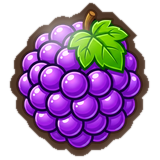
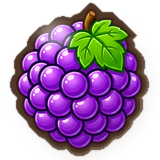
art(frames, fruit): the reference's frame and the reference's gloss
The board frame is built from three lines the way the reference's is — a dark
outer edge, the gold, and a warm keyline against the cream — with a deeper cream
band around the tiles. The fruit carries a shading gradient turning away from
the light, a crisper specular on the shoulder and a rim light bouncing off the
table, so eight flat paints read as eight glossy pieces.

diff --git a/godot-port/tools/import_gem_art.py b/godot-port/tools/import_gem_art.py
@@ -160,42 +160,53 @@ def _outlined(picture: Image.Image) -> Image.Image:
 
 
 def _enamel(picture: Image.Image) -> Image.Image:
-    """Give the fruit one specular and one rim light, so the board reads as enamel, not paper.
+    """Give the fruit the volume the reference has: a shading gradient, a specular and a rim light.
 
-    The paints are flat on purpose — they have to read at 42 dp — but a board of flat fruit is a board
-    of stickers. The highlight is derived from the fruit's own silhouette: it is the piece's alpha
-    clipped to a soft blob in the upper left, which means it lands on the fruit whatever shape it is,
-    instead of floating in the corner of the plate.
+    Three layers, in this order:
+      1. shading   the lower right of the fruit is multiplied down, so it turns away from the light
+      2. specular  one bright, crisp highlight on the upper left, clipped to the fruit's silhouette
+      3. rim       a thin light line on the lower right edge, the light bouncing off the table
+
+    All three are derived from the fruit's own alpha, so they land on the fruit whatever its shape is.
     """
     size = picture.width
     alpha = picture.getchannel("A")
     solid = np.asarray(alpha).astype(np.float32) / 255.0
-
-    spec_mask = Image.new("L", (size, size), 0)
-    ImageDraw.Draw(spec_mask).ellipse((size * 0.24, size * 0.12, size * 0.58, size * 0.34), fill=255)
-    spec_mask = spec_mask.filter(ImageFilter.GaussianBlur(size * 0.05))
-    spec = np.asarray(spec_mask).astype(np.float32) / 255.0
-
-    # The rim: the inside of the silhouette, minus a copy of the silhouette shrunk by three pixels.
-    inner = np.asarray(alpha.filter(ImageFilter.MinFilter(5))).astype(np.float32) / 255.0
-    rim = np.clip(solid - inner, 0.0, 1.0)
-    rim = np.asarray(Image.fromarray((rim * 255).astype(np.uint8), "L")
-                     .filter(ImageFilter.GaussianBlur(1.2))).astype(np.float32) / 255.0
-    # Only the lower right of that rim catches the light.
     coords = np.linspace(0.0, 1.0, size, dtype=np.float32)
-    lower_right = np.clip((coords[None, :] + coords[:, None]) * 0.5 - 0.35, 0.0, 1.0)
+    across = coords[None, :]
+    down = coords[:, None]
 
-    shine = np.clip(solid * spec * 0.55 + rim * lower_right * 0.30, 0.0, 1.0)
-    white = Image.new("RGBA", (size, size), (255, 255, 255, 0))
-    white.putalpha(Image.fromarray((shine * 255.0).astype(np.uint8), "L"))
-    out = Image.alpha_composite(picture, white)
+    # 1. Shading: a diagonal falloff, strongest at the bottom right corner of the fruit.
+    shade = np.clip((across * 0.45 + down * 0.75) - 0.35, 0.0, 1.0) ** 1.3
+    shading = Image.new("RGBA", (size, size), (46, 22, 8, 0))
+    shading.putalpha(Image.fromarray((shade * solid * 72.0).astype(np.uint8), "L"))
+    shading = shading.filter(ImageFilter.GaussianBlur(size * 0.045))
+    out = Image.alpha_composite(picture, shading)
 
-    # A touch more colour and contrast: the reference's fruit is saturated, and a flat paint next to a
-    # painted board reads as washed out.
+    # 2. Specular: brighter and larger than a soft smudge, with a hard-ish core.
+    spec_mask = Image.new("L", (size, size), 0)
+    ImageDraw.Draw(spec_mask).ellipse((size * 0.24, size * 0.14, size * 0.46, size * 0.30), fill=255)
+    spec_mask = spec_mask.filter(ImageFilter.GaussianBlur(size * 0.028))
+    spec = np.asarray(spec_mask).astype(np.float32) / 255.0
+    shine = Image.new("RGBA", (size, size), (255, 255, 255, 0))
+    shine.putalpha(Image.fromarray((np.clip(solid * spec, 0, 1) * 120.0).astype(np.uint8), "L"))
+    out = Image.alpha_composite(out, shine)
+
+    # 3. Rim light: the inside of the silhouette on its lower right, where the table bounces back.
+    from scipy import ndimage
+    inner = ndimage.binary_erosion(np.asarray(alpha) > 128, iterations=3)
+    band = np.clip(solid - inner.astype(np.float32), 0.0, 1.0)
+    lower_right = np.clip((across + down) * 0.5 - 0.42, 0.0, 1.0) * 2.2
+    rim = Image.new("RGBA", (size, size), (255, 246, 214, 0))
+    rim.putalpha(Image.fromarray((np.clip(band * lower_right, 0, 1) * 80.0).astype(np.uint8), "L"))
+    out = Image.alpha_composite(out, rim.filter(ImageFilter.GaussianBlur(0.8)))
+
+    # Saturation and contrast: the reference's fruit is vivid, and a flat paint on a painted board
+    # reads as washed out next to it.
     from PIL import ImageEnhance
     rgb = out.convert("RGB")
     rgb = ImageEnhance.Color(rgb).enhance(1.10)
-    rgb = ImageEnhance.Contrast(rgb).enhance(1.04)
+    rgb = ImageEnhance.Contrast(rgb).enhance(1.05)
     rgb = rgb.convert("RGBA")
     rgb.putalpha(out.getchannel("A"))
     return rgb

diff --git a/godot-port/tools/import_plate_art.py b/godot-port/tools/import_plate_art.py
@@ -176,14 +176,17 @@ def build_tray() -> Image.Image:
     # screen, and a blue frame round it made the grid look like a panel on a dashboard.
     picture = _plate((size, size), radius, [(0.0, (255, 250, 234)), (0.42, IVORY),
                                             (1.0, _mix(IVORY, (243, 220, 176), 0.5))])
+    # Three lines, the way the reference's frame is built: a dark outer edge, the gold, and a warm
+    # inner keyline that separates the gold from the cream.
     picture = _rim(picture, radius, _mix(GOLD_DARK, (168, 124, 52), 0.4), width=3)
-    picture = _rim(picture, radius, GOLD, width=2, inset=int(size * 0.009))
+    picture = _rim(picture, radius, GOLD, width=3, inset=int(size * 0.010))
+    picture = _rim(picture, radius, _mix(GOLD_LIGHT, IVORY, 0.45), width=2, inset=int(size * 0.019))
 
     # The bed the tiles sit in: a shade darker than the tiles, so the gaps read as gaps. It stops at the
     # grid (which starts 15 dp in), so the royal frame keeps a band of its own all the way round.
-    inner = int(size * 0.022)
+    inner = int(size * 0.030)
     bed = _plate((size - inner * 2, size - inner * 2), int(size * 0.050),
-                 [(0.0, (232, 210, 172)), (1.0, (246, 231, 200))])
+                 [(0.0, (226, 202, 160)), (1.0, (244, 228, 194))])
     bed = _rim(bed, int(size * 0.050), _mix(GOLD, IVORY_SHADE, 0.35), width=2)
     picture.alpha_composite(bed, (inner, inner))
 
